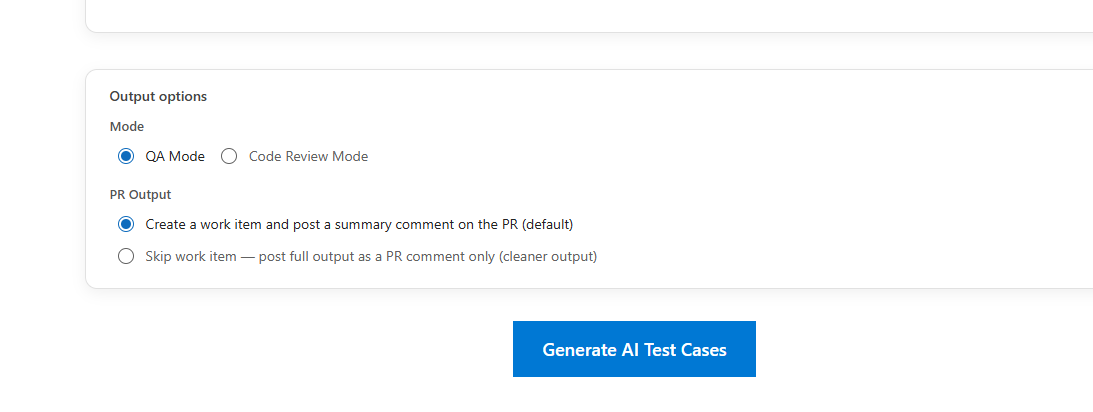
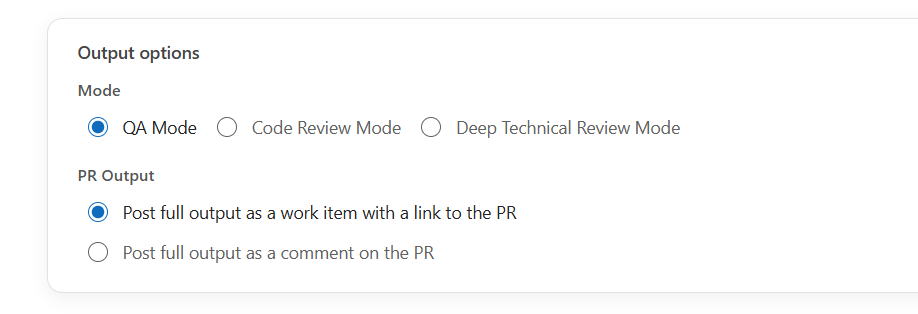
new pics

diff --git a/overview.md b/overview.md
@@ -27,7 +27,7 @@ View https://qazent.com for more info!
 
    ![Code Diff](public/hero-preview.png)
 
-   ![Analyze PR tab](public/workflow/pr-tab-05-26.png)
+   ![Analyze PR tab](public/workflow/overview-pr.png)
 
 2. **Choose QA mode or Code Review mode**
 
